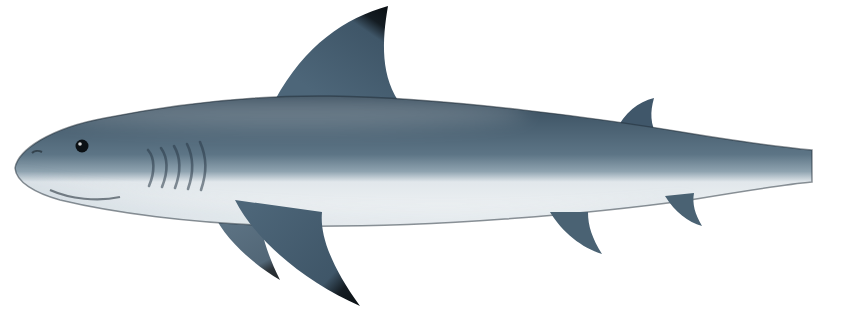
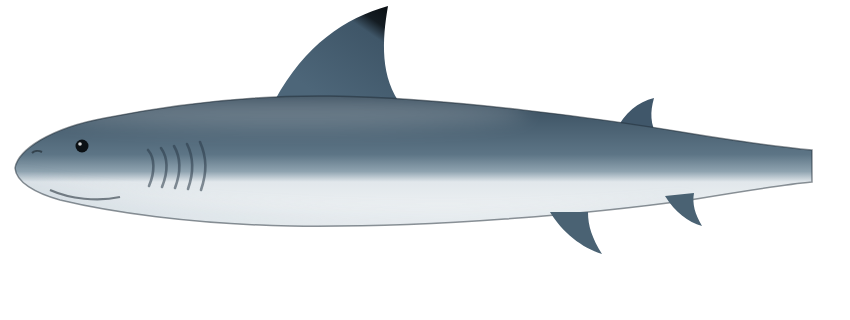
1.1.9: moving fins for tangs, angelfish, shark, dolphin and whale; drifting seahorses; animal count setting
- pectoral fins split out of the body art as animated parts (tang_pec, ytang_pec, angel_pec,
  shark_pec + shark_pecf, dolphin_pec, whale_fin)
- seahorses drift in a slow figure-eight around their home (bob mode with range/period), never turning
- settings: HOW MANY ANIMALS (a few / some / lots) keeps a third, two thirds or all of the reef-fish
  slots (plus the extra night jellyfish); launch option count= for testing
- make-art.js: headless Chrome screenshots time out after 30 s and retry with a fresh profile

Claude-Session: https://claude.ai/code/session_01TjXjoGUoKzCAKPjEBqhxMT

Changed region(s): [[0.2447, 0.625, 0.4282, 0.9688]]

diff --git a/tools/make-art.js b/tools/make-art.js
@@ -242,9 +242,11 @@ asset('tang_body', 262, 182, () => {
     <ellipse cx="150" cy="46" rx="80" ry="10" fill="#fff" opacity=".3" filter="url(#b6)"/>
   </g>
   <path d="${body}" fill="none" stroke="#020a2a" stroke-width="2" opacity=".6"/>
-  ${fin('M190,98 C172,106 162,120 160,130 C176,124 188,112 196,102 Z', '#ffd84a', '#7a5a00', 1.5)}
   ${eye(224, 72, 7.5, '#1d2e70')}`;
 });
+// pectoral fins are separate moving parts, drawn at the offset given in Specs.brs
+asset('tang_pec', 40, 36, () => `<defs>${finRays('fr', 0.22, 0, 5)}</defs>
+  ${fin('M32,2 C14,10 4,24 2,34 C18,28 30,16 38,6 Z', '#ffd84a', '#7a5a00', 1.5)}`);
 asset('tang_tail', 82, 112, () => `<defs>${lin('y', [[0, '#ffcf1a'], [1, '#ffe46b']])}${finRays('fr', 0.18, 90, 5)}</defs>
   ${fin('M80,47 L10,5 C22,40 22,72 10,107 L80,65 Z', 'url(#y)', null)}
   <path d="M80,47 L10,5" stroke="#08102a" stroke-width="8" stroke-linecap="round"/><path d="M10,107 L80,65" stroke="#08102a" stroke-width="8" stroke-linecap="round"/>`);
@@ -260,10 +262,11 @@ asset('ytang_body', 222, 202, () => {
     <ellipse cx="130" cy="58" rx="60" ry="12" fill="#fff" opacity=".35" filter="url(#b6)"/></g>
   <path d="${body}" fill="none" stroke="#a87c00" stroke-width="1.8" opacity=".7"/>
   <ellipse cx="42" cy="100" rx="6" ry="2.5" fill="#fff"/>
-  ${fin('M168,104 C154,110 146,120 144,130 C158,124 168,114 174,106 Z', '#fff36b', '#c79a00', 1.4)}
   <path d="M214,100 L206,101" stroke="#7a5a00" stroke-width="2"/>
   ${eye(180, 74, 7, '#3b2a00')}`;
 });
+asset('ytang_pec', 34, 30, () => `<defs>${finRays('fr', 0.16, 0, 5)}</defs>
+  ${fin('M26,2 C12,8 4,18 2,28 C16,22 26,12 32,4 Z', '#fff36b', '#c79a00', 1.4)}`);
 asset('ytang_tail', 72, 110, () => `<defs>${lin('y', [[0, '#ffd000'], [1, '#ffe760']])}${finRays('fr', 0.16, 90, 5)}</defs>
   ${fin('M70,48 C50,40 30,10 8,6 C18,40 18,70 8,104 C30,100 50,70 70,62 Z', 'url(#y)', '#c79a00', 2)}`);
 
@@ -288,9 +291,10 @@ asset('angel_body', 250, 212, () => {
     <ellipse cx="120" cy="52" rx="60" ry="10" fill="#fff" opacity=".25" filter="url(#b6)"/>
   </g>
   <path d="${body}" fill="none" stroke="#050b2a" stroke-width="2" opacity=".7"/>
-  ${fin('M176,112 C160,120 150,132 148,144 C164,138 176,126 182,116 Z', '#0a1233', '#ffd23a', 2)}
   ${eye(192, 84, 7, '#9fc4ff')}`;
 });
+asset('angel_pec', 38, 36, () => `<defs>${finRays('fr', 0.18, 0, 5)}</defs>
+  ${fin('M30,2 C14,10 4,22 2,34 C18,28 30,16 36,6 Z', '#0a1233', '#ffd23a', 2)}`);
 asset('angel_tail', 72, 100, () => `<defs>${lin('y', [[0, '#ffc21a'], [1, '#ffdf5a']])}${finRays('fr', 0.2, 90, 5)}</defs>
   ${fin('M70,40 C50,30 30,5 10,8 C2,30 2,70 10,92 C30,95 50,70 70,60 Z', 'url(#y)', '#b88400', 2)}`);
 
@@ -313,7 +317,6 @@ asset('shark_body', 850, 320, () => {
   return `<defs>${lin('sk', [[0, '#34495a'], [0.45, '#5d7586'], [0.58, '#8fa3b0'], [0.66, '#e1e7eb'], [1, '#f5f7f8']])}
     ${tipGrad('dg', 525, 100, 462, 8)}${tipGrad('pg', 600, 205, 490, 306)}${tipGrad('fg', 610, 205, 570, 280)}
     <clipPath id="bc"><path d="${body}"/></clipPath>${blur('b10', 10)}${blur('b2', 2)}</defs>
-  <path d="M640,205 C630,235 600,262 570,280 C585,250 590,228 590,212 Z" fill="url(#fg)" opacity=".9"/>
   <path d="M575,100 C545,45 505,18 462,6 C468,40 470,78 448,106 Z" fill="url(#dg)"/>
   <path d="M235,132 C225,112 212,102 196,98 C200,112 200,124 192,138 Z" fill="#40576a"/>
   <path d="${body}" fill="url(#sk)"/>
@@ -323,13 +326,18 @@ asset('shark_body', 850, 320, () => {
     <g fill="none" stroke="#2a3a47" stroke-width="2.6" opacity=".55" stroke-linecap="round">${gills}</g>
   </g>
   <path d="${body}" fill="none" stroke="#1d2a33" stroke-width="1.5" opacity=".5"/>
-  <path d="M615,200 C595,240 545,282 490,306 C522,262 530,232 528,212 Z" fill="url(#pg)"/>
   <path d="M300,212 C288,232 268,248 248,254 C258,238 262,226 262,212 Z" fill="#4a6273"/>
   <path d="M185,196 C175,212 162,222 148,226 C155,214 158,204 156,193 Z" fill="#4a6273"/>
   <path d="M800,190 C780,199 752,202 730,197" fill="none" stroke="#2a3540" stroke-width="2.2" opacity=".6"/>
   <circle cx="768" cy="146" r="6.5" fill="#0b1014"/><circle cx="770" cy="144" r="1.8" fill="#fff" opacity=".8"/>
   <path d="M808,152 C812,150 816,151 818,153" stroke="#1a232a" stroke-width="2" fill="none" opacity=".6"/>`;
 });
+// pectoral fins: near one (over the body) and far one (behind it), moving parts
+const sharkTip = (id, x1, y1, x2, y2) => lin(id, [[0, '#4d6679'], [0.72, '#3f5668'], [0.84, '#141c22'], [1, '#0a0f13']], x1, y1, x2, y2, 'gradientUnits="userSpaceOnUse"');
+asset('shark_pec', 134, 114, () => `<defs>${sharkTip('pg', 114, 9, 4, 110)}</defs>
+  <path d="M129,4 C109,44 59,86 4,110 C36,66 44,36 42,16 Z" fill="url(#pg)"/>`);
+asset('shark_pecf', 78, 83, () => `<defs>${sharkTip('fg', 44, 4, 4, 79)}</defs>
+  <path d="M74,4 C64,34 34,61 4,79 C19,49 24,27 24,11 Z" fill="url(#fg)" opacity=".9"/>`);
 asset('shark_tail', 272, 320, () => `<defs>${lin('t', [[0, '#3b5163'], [0.6, '#52697b'], [1, '#2e3f4c']])}
   ${lin('tip', [[0, '#000', 0], [0.75, '#000', 0], [1, '#0a0f13', 0.9]], 1, 0, 0, 0)}</defs>
   <path d="M270,145 C210,120 110,50 20,8 C50,70 80,120 120,160 C90,200 70,250 65,295 C130,255 210,200 270,180 Z" fill="url(#t)"/>
@@ -451,9 +459,11 @@ asset('whale', 1300, 430, () => {
   <path d="M480,178 C452,154 430,156 410,184 Z" fill="#1d3346"/>
   <path d="${d}" fill="url(#w)"/>
   <g clip-path="url(#c)"><g fill="none" stroke="#8aa3b3" stroke-width="2.5" opacity=".45">${grooves}</g><g fill="#2a4255">${knobs}</g></g>
-  <path d="M930,288 C870,350 760,404 610,426 C690,390 790,338 840,286 Z" fill="#7d97a8"/>
   <circle cx="1180" cy="214" r="5" fill="#0e1a24"/></g>`;
 }, 0.5);
+// the humpback's long flipper, a moving part
+asset('whale_fin', 328, 148, () => `<defs>${blur('b1', 1.5)}</defs>
+  <path d="M324,6 C264,68 154,122 4,144 C84,108 184,56 234,4 Z" fill="#7d97a8" filter="url(#b1)"/>`, 0.5);
 
 // ===== MORE CREATURES =====
 function normalsOf(pts) {
@@ -529,10 +539,11 @@ asset('dolphin_body', 540, 200, () => {
   <g clip-path="url(#c)"><ellipse cx="360" cy="76" rx="150" ry="10" fill="#fff" opacity=".3" filter="url(#b8)"/></g>
   <path d="${body}" fill="none" stroke="#2c3a44" stroke-width="1.4" opacity=".55"/>
   <path d="M535,119 C515,124 495,126 476,121" fill="none" stroke="#2c3a44" stroke-width="2" opacity=".7"/>
-  <path d="M400,140 C390,165 365,185 338,192 C352,170 360,155 362,140 Z" fill="url(#fin)"/>
   <circle cx="455" cy="108" r="4.5" fill="#0c1216"/><circle cx="456.5" cy="106.5" r="1.4" fill="#fff"/>
   <path d="M426,66 C430,64 434,64 438,66" stroke="#2c3a44" stroke-width="2" fill="none" opacity=".6"/>`;
 });
+asset('dolphin_pec', 68, 58, () => `<defs>${lin('fin', [[0, '#5d7080'], [1, '#3e4f5c']])}</defs>
+  <path d="M64,2 C54,27 29,47 2,54 C16,32 24,17 26,2 Z" fill="url(#fin)"/>`);
 asset('dolphin_tail', 140, 130, () => `<defs>${lin('t', [[0, '#55697a'], [1, '#3c4c58']])}</defs>
   <path d="M136,55 C110,50 70,30 20,6 C30,30 50,50 60,62 C50,74 30,94 20,118 C70,94 110,74 136,69 Z" fill="url(#t)"/>`);
 
@@ -966,7 +977,7 @@ const list = sizesOnly ? [] : only.length ? assets.filter((a) => only.includes(a
 if ((!only.length && !sizesOnly) || only.includes('caustics')) { caustics('caustics_a', 11); caustics('caustics_b', 29); }
 const profile = path.join(TMP, 'chrome-profile');
 // Roku can't mirror images with negative scale, so creatures also get a pre-flipped "_l" (facing left) copy.
-const MIRROR = new Set(['clown_body', 'clown_tail', 'clown_pec','tang_body', 'tang_tail', 'ytang_body', 'ytang_tail', 'angel_body', 'angel_tail',
+const MIRROR = new Set(['clown_body', 'clown_tail', 'clown_pec', 'tang_pec', 'ytang_pec', 'angel_pec', 'shark_pec', 'shark_pecf', 'dolphin_pec', 'whale_fin', 'tang_body', 'tang_tail', 'ytang_body', 'ytang_tail', 'angel_body', 'angel_tail',
   'school_fish', 'shark_body', 'shark_tail', 'turtle_body', 'turtle_flipper', 'turtle_rear', 'manta', 'whale',
   'octo_body', 'octo_arms', 'dolphin_body', 'dolphin_tail', 'lion_body', 'lion_fin', 'lion_tail', 'seahorse', 'seahorse_fin', 'crab_legs', 'diver_body', 'diver_leg', 'shrimp', 'shrimp_finger']);
 const jobs = [];
@@ -984,9 +995,19 @@ for (const a of jobs) {
   fs.writeFileSync(svgFile, svg);
   const html = path.join(TMP, a.name + '.html');
   fs.writeFileSync(html, `<!doctype html><html><head><style>html,body{margin:0;padding:0;background:transparent;overflow:hidden}svg{display:block}</style></head><body>${svg}</body></html>`);
-  execFileSync(CHROME, ['--headless=new', '--disable-gpu', '--hide-scrollbars', '--force-device-scale-factor=1',
-    '--default-background-color=00000000', `--user-data-dir=${profile}`, `--window-size=${W},${H}`,
-    `--screenshot=${png}`, 'file:///' + html.replace(/\\/g, '/')], { stdio: 'ignore' });
+  // headless Chrome now and then hangs on a screenshot: give up after 30 s and try again with a fresh
+  // profile (the hung instance keeps the old one locked)
+  for (let attempt = 1; ; attempt++) {
+    try {
+      execFileSync(CHROME, ['--headless=new', '--disable-gpu', '--hide-scrollbars', '--force-device-scale-factor=1',
+        '--default-background-color=00000000', `--user-data-dir=${attempt === 1 ? profile : profile + '-retry' + attempt}`, `--window-size=${W},${H}`,
+        `--screenshot=${png}`, 'file:///' + html.replace(/\\/g, '/')], { stdio: 'ignore', timeout: 30000 });
+      break;
+    } catch (e) {
+      if (attempt >= 3) throw e;
+      console.log(`${a.name}: Chrome timed out, retrying`);
+    }
+  }
   const buf = fs.readFileSync(png);
   const w = buf.readUInt32BE(16), h = buf.readUInt32BE(20);
   console.log(`${a.name.padEnd(16)} ${w}x${h}${w !== W || h !== H ? '  <-- SIZE MISMATCH' : ''}`);

diff --git a/README.md b/README.md
@@ -11,7 +11,8 @@ plankton and jellyfish glow, reef fish shelter and octopus/sharks/lionfish come 
 
 **Settings:** Settings > Theme > Screensavers > Reefscape > *Custom settings* (or press * when
 running it as an app): lighting mode (clock / always day / sunset / night / fast cycle), an optional
-clock (time, date or both; it hops corners every few minutes to avoid burn-in) and a checklist of which animals
+clock (time, date or both; it hops corners every few minutes to avoid burn-in), how many animals swim at once
+(a few / some / lots: a third, two thirds or all of the reef-fish slots) and a checklist of which animals
 (plus Scuba Steve the diver and the fishing hook) appear. Saved in the registry section `CoralReef` (the old name, kept so saved settings survive the rename).
 
 ## Build & install
@@ -26,7 +27,7 @@ Run these from **PowerShell** (Git Bash's `tar` can't create the zip).
 Launch options for testing (`.\tools\roku.ps1 log -Launch "..."`): `hour=21.5` (start at a time of day),
 `demo=1` (whole day in 4 minutes), `settings=1` (open the settings panel),
 `off=shark%2Ceel` (save that list of disabled animals; `off=none` turns all back on),
-`clock=both` (show the clock this run), `fish=1` (fishing event in 2 s), `diver=1` (send the diver now), `shrimp=1` (shrimp pops out now),
+`clock=both` (show the clock this run), `count=few|some|lots` (save the animal count setting), `fish=1` (fishing event in 2 s), `diver=1` (send the diver now), `shrimp=1` (shrimp pops out now),
 `shark=1` (a close-up shark pass in 2 s, to see fish scatter), `spawn=1` (treat tonight as a full-moon coral spawning night; use with `hour=22`),
 `quality=0|1|2` (force minimal / reduced / full quality; the probe then measures every 5 s and only reports),
 `hide=surfaceGroup%2Crays` (hide nodes by id, to find which layer causes a drawing problem). `setscene=1` opens the screensaver's Custom settings screen. Combine with `&`.

diff --git a/store/LISTING.md b/store/LISTING.md
@@ -27,7 +27,7 @@ Settings (Settings > Theme > Screensavers > Reefscape > Custom settings):
 No account, no ads, no internet connection needed, and no data collected.
 
 ## Release notes
-1.1.8: Garden eels, fish that scatter from sharks, full-moon coral spawning, sea stars that crawl, seahorses that swim, Scuba Steve the diver, and smoother animation on older Roku models.
+1.1.9: Garden eels, fish that scatter from sharks, full-moon coral spawning, sea stars that crawl, drifting seahorses, fish and sharks with moving fins, a setting for how many animals swim at once, Scuba Steve the diver, and smoother animation on older Roku models.
 
 1.0: First release.
 
@@ -46,7 +46,7 @@ No account, no ads, no internet connection needed, and no data collected.
 - Screenshots 1920x1080: screenshots/1-reef-day.jpg ... 6-clock.jpg (settings-screen.jpg is a spare)
 
 ## Package
-- ../signing/Reefscape-1.1.8.pkg (signed; keep ../signing/SIGNING-KEY.txt safe)
+- ../signing/Reefscape-1.1.9.pkg (signed; keep ../signing/SIGNING-KEY.txt safe)
 
 ## Web pages the profile asks for
 - Privacy policy: privacy-policy.html
